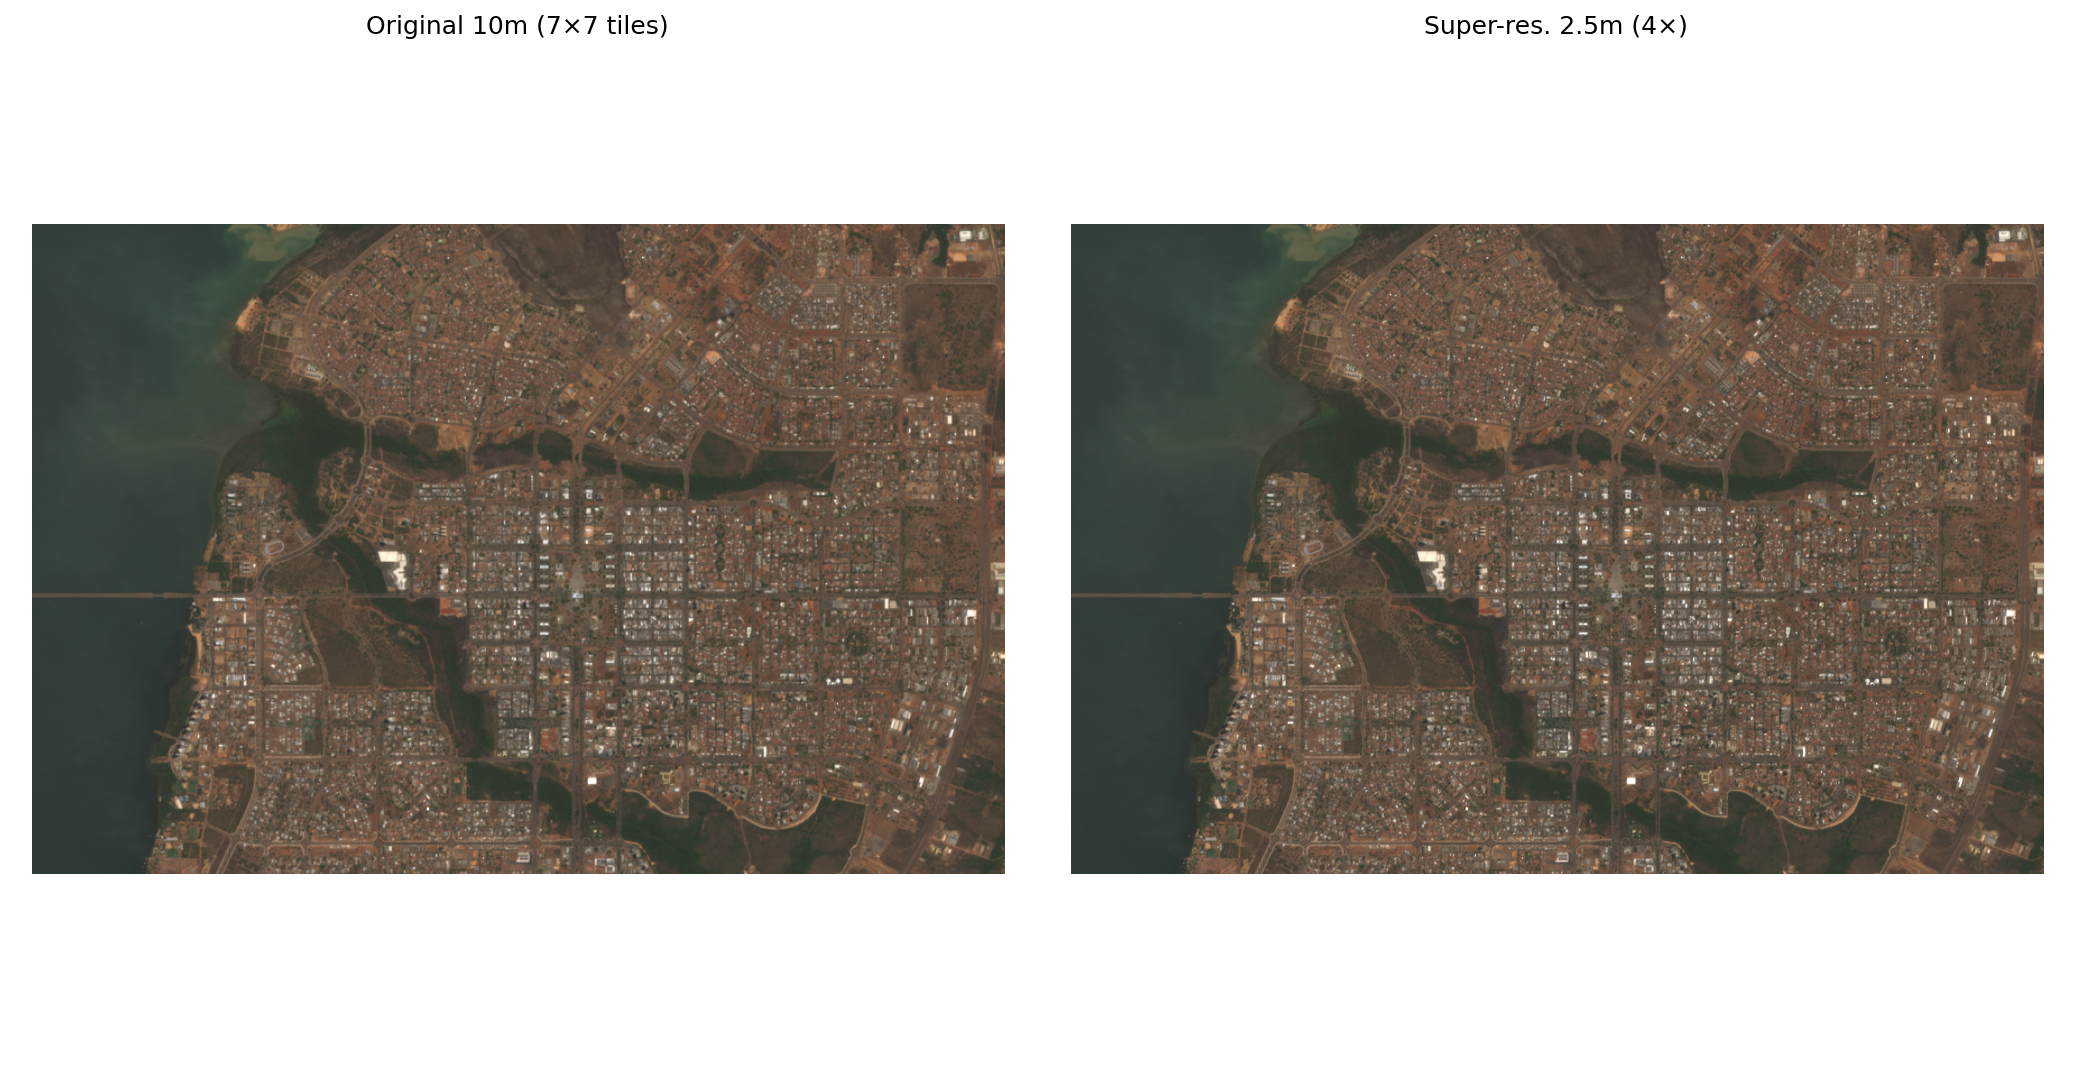
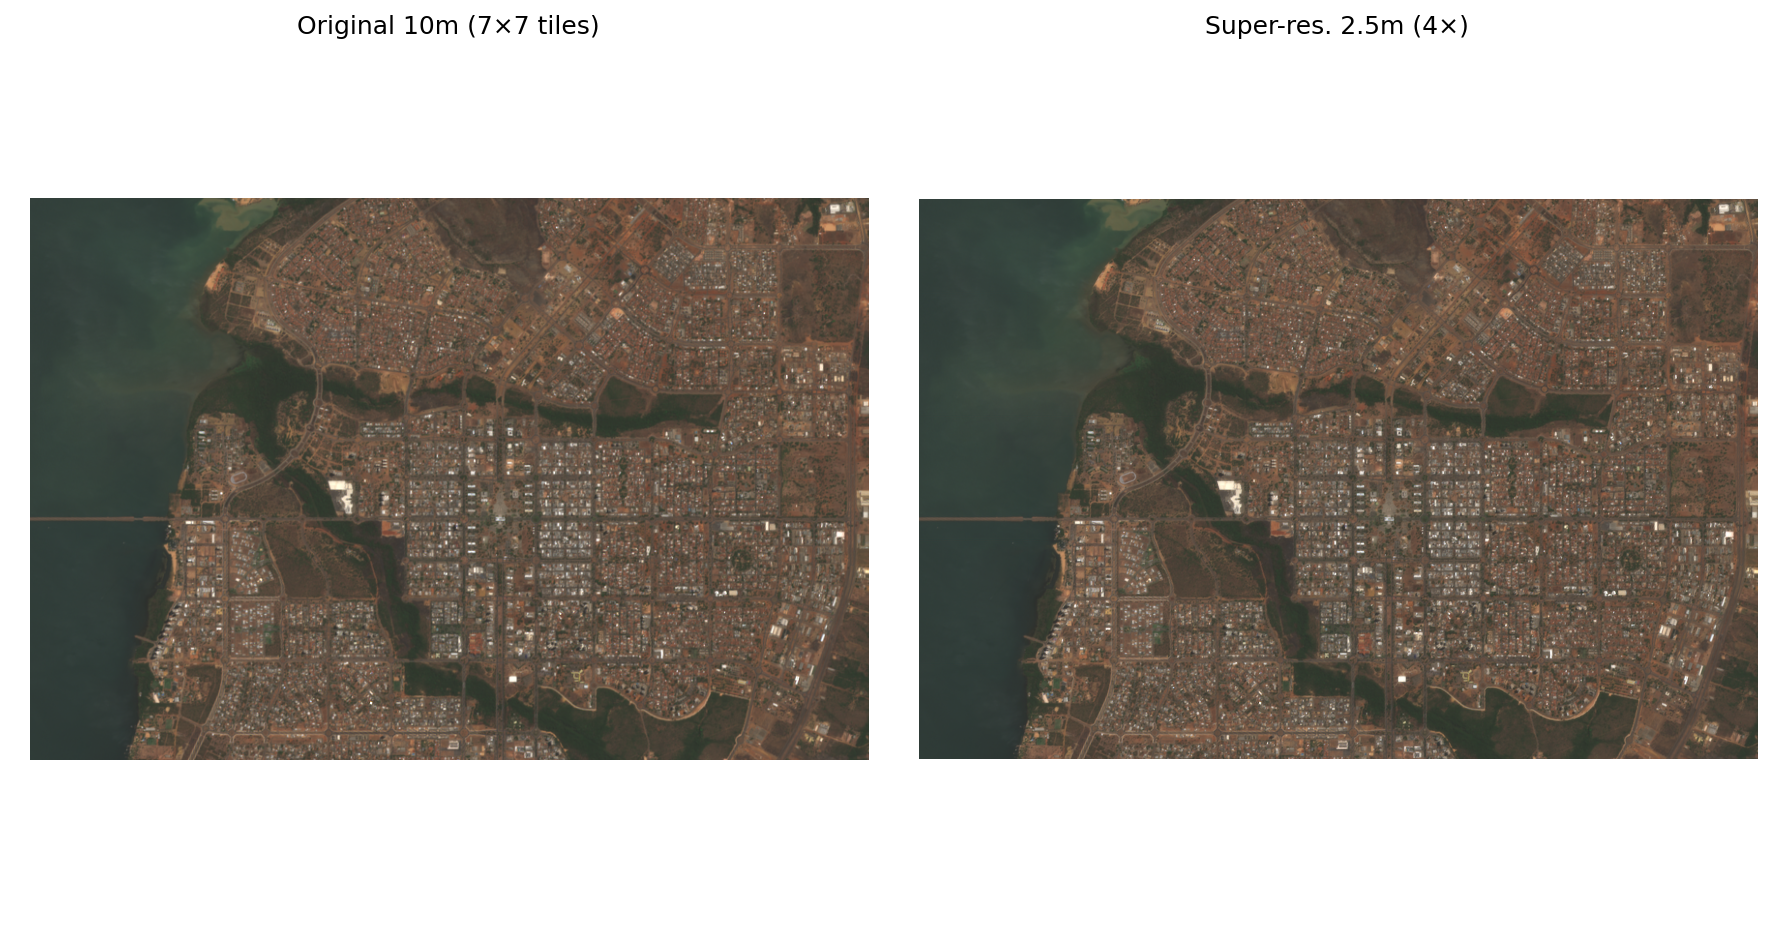
`Added rio-color enhancement to super-resolved GeoTIFFs`

diff --git a/geo3.py b/geo3.py
@@ -304,7 +304,7 @@ def main():
 
     mosaic_sr_clipped, mask_sr = clip_to_polygon(mosaico_sr, transf_sr, geometria_proj)
 
-    # 7. Salvar
+    # 7. Salvar GeoTIFFs originais
     os.makedirs(OUTPUT_DIR, exist_ok=True)
 
     p_orig = os.path.join(OUTPUT_DIR, "original_10m_mosaic.tif")
@@ -315,19 +315,89 @@ def main():
     save_geotiff(mosaic_sr_clipped, transf_sr, crs, p_sr)
     print(f"Super-res.: {p_sr}")
 
+    # 7.5 Aplicar rio-color (melhoria de cores) no super-resolvido
+    try:
+        from rio_color.operations import simple_atmo, saturation
+        import rio_color.utils as rio_utils
+        print("\nAplicando rio-color (correção atmosférica + saturação)...")
+
+        # Extrair apenas as bandas RGB (B04, B03, B02)
+        rgb_sr = mosaic_sr_clipped[[0, 1, 2]].copy().astype("float32")
+
+        # Guardar máscara de NaN para restaurar depois
+        mask_nan = np.isnan(rgb_sr[0])
+
+        # Substituir NaN por 0 para processamento e normalizar para [0,1]
+        rgb_sr = np.nan_to_num(rgb_sr, nan=0.0)
+        
+        # Normalizar para [0,1] - o modelo pode gerar valores fora desta faixa
+        # Primeiro clamps para [0, max] depois divide pelo max global
+        vmin, vmax = rgb_sr.min(), rgb_sr.max()
+        if vmax > 1.0 or vmin < 0.0:
+            if vmax - vmin > 0.001:
+                rgb_norm = (rgb_sr - vmin) / (vmax - vmin)
+            else:
+                rgb_norm = np.clip(rgb_sr, 0, 1)
+        else:
+            rgb_norm = rgb_sr
+
+        # simple_atmo: correção atmosférica visual
+        #   haze=0.03 (névoa leve), contrast=3 (típico), bias=0.5 (centro)
+        rgb_enhanced = simple_atmo(rgb_norm, haze=0.03, contrast=3, bias=0.5)
+
+        # saturation: aumentar saturação em 30%
+        rgb_enhanced = saturation(rgb_enhanced, proportion=1.3)
+
+        # Desnormalizar de volta para a escala original (opcional)
+        # Mantemos em [0,1] porque é o range correto para visualização
+        rgb_enhanced = np.clip(rgb_enhanced, 0.0, 1.0)
+
+        # Restaurar NaN
+        for b in range(3):
+            rgb_enhanced[b][mask_nan] = np.nan
+
+        # Salvar RGB com cores melhoradas (3 bandas, float32 em [0,1])
+        p_rgb = os.path.join(OUTPUT_DIR, "super_resolved_2_5m_cor.tif")
+        with rasterio.open(p_rgb, 'w', driver='GTiff',
+                           height=rgb_enhanced.shape[1], width=rgb_enhanced.shape[2],
+                           count=3, dtype=rasterio.float32,
+                           crs=crs, transform=transf_sr, compress='lzw') as dst:
+            dst.write(rgb_enhanced.astype(rasterio.float32))
+        print(f"Super-res. corrigido: {p_rgb}")
+
+        # Criar versão 4-bandas (substitui RGB, mantém NIR)
+        mosaic_sr_color = mosaic_sr_clipped.copy()
+        mosaic_sr_color[[0, 1, 2]] = rgb_enhanced
+        p_sr_color = os.path.join(OUTPUT_DIR, "super_resolved_2_5m_color.tif")
+        save_geotiff(mosaic_sr_color, transf_sr, crs, p_sr_color)
+        print(f"Super-res. (4 bandas): {p_sr_color}")
+
+        USAR_COLOR = True
+    except Exception as e:
+        print(f"  [!] Erro ao aplicar rio-color: {e}")
+        import traceback
+        traceback.print_exc()
+        print("  [!] (rio-color está instalado mas houve erro nos dados)")
+        USAR_COLOR = False
+        mosaic_sr_color = mosaic_sr_clipped
+
     # 8. Visualização
     print("\nGerando visualização...")
-    fig, axes = plt.subplots(1, 2, figsize=(14, 7))
+    n_panels = 3 if USAR_COLOR else 2
+    fig, axes = plt.subplots(1, n_panels, figsize=(6 * n_panels, 7))
 
-    rgb_orig = np.clip(mosaic_orig_clipped[[0, 1, 2]].transpose(1, 2, 0) * 1.5, 0, 1)
-    axes[0].imshow(rgb_orig)
+    axes[0].imshow(np.clip(mosaic_orig_clipped[[0, 1, 2]].transpose(1, 2, 0) * 1.5, 0, 1))
     axes[0].set_title(f"Original 10m ({nrows}×{ncols} tiles)")
     axes[0].axis('off')
 
-    rgb_sr = np.clip(mosaic_sr_clipped[[0, 1, 2]].transpose(1, 2, 0) * 1.5, 0, 1)
-    axes[1].imshow(rgb_sr)
+    axes[1].imshow(np.clip(mosaic_sr_clipped[[0, 1, 2]].transpose(1, 2, 0) * 1.5, 0, 1))
     axes[1].set_title(f"Super-res. 2.5m ({FATOR_SR}×)")
     axes[1].axis('off')
+
+    if USAR_COLOR:
+        axes[2].imshow(np.clip(mosaic_sr_color[[0, 1, 2]].transpose(1, 2, 0), 0, 1))
+        axes[2].set_title(f"Super-res. + rio-color")
+        axes[2].axis('off')
 
     plt.tight_layout()
     plt.savefig(os.path.join(OUTPUT_DIR, "comparacao.png"), dpi=150, bbox_inches='tight')